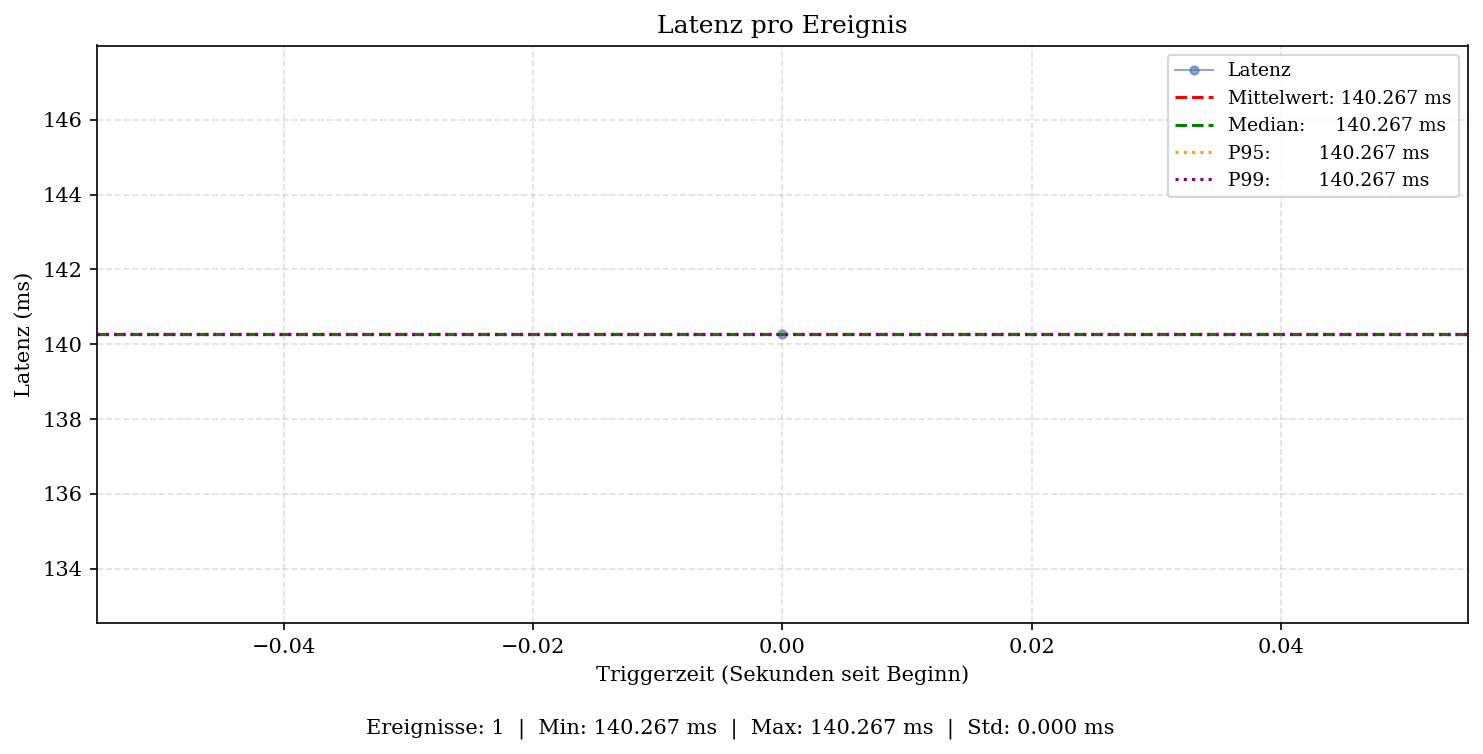
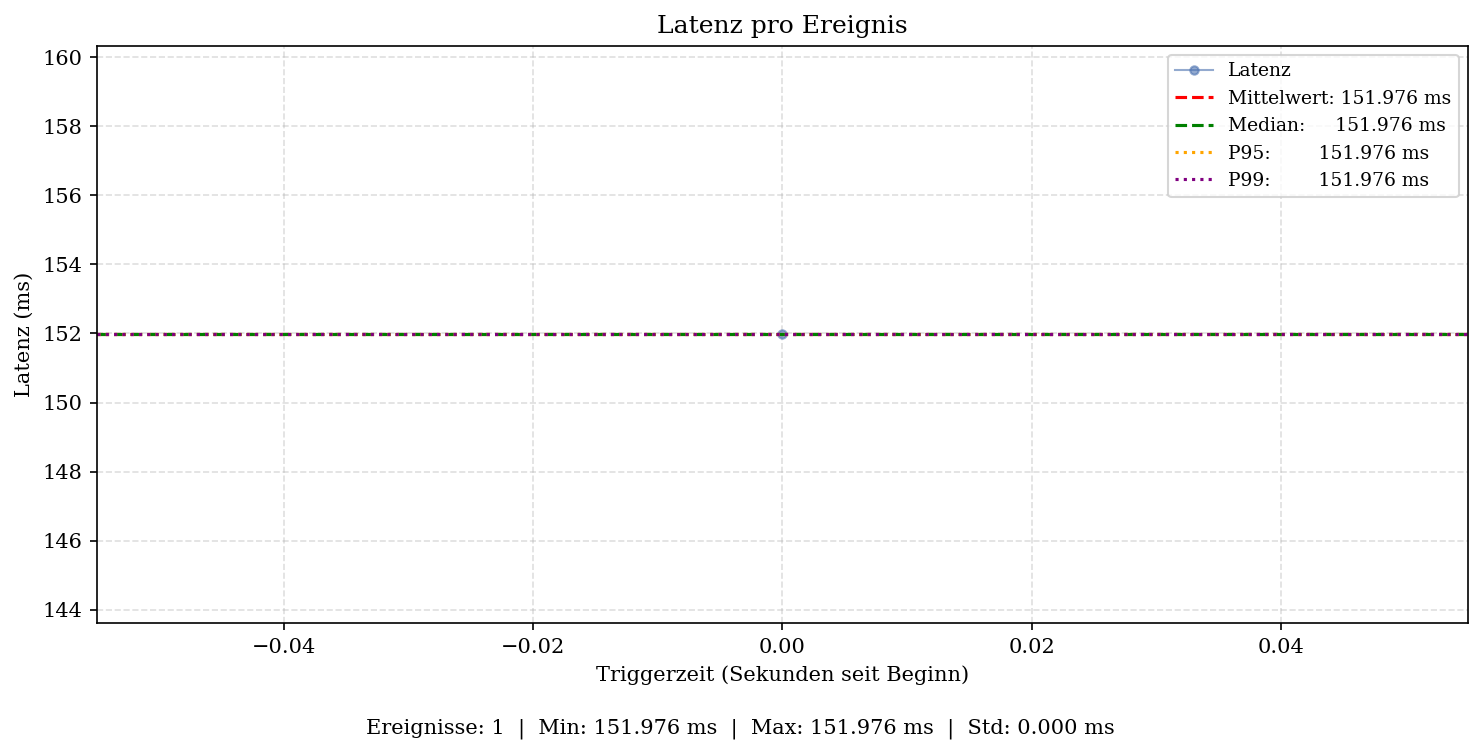
feat(runner): added timestamp to the runner

diff --git a/runner/runner.py b/runner/runner.py
@@ -2,8 +2,24 @@ import argparse
 import os
 import subprocess
 import time
+from datetime import datetime
 
 import yaml
+
+
+def log(msg="", leading_newline=False):
+    """Print a message prefixed with the current local time."""
+    ts = datetime.now().strftime("%Y-%m-%d %H:%M:%S")
+    prefix = "\n" if leading_newline else ""
+    print(f"{prefix}[{ts}] {msg}", flush=True)
+
+
+def format_duration(seconds):
+    """Format a duration in seconds as H:MM:SS."""
+    seconds = int(round(seconds))
+    h, rem = divmod(seconds, 3600)
+    m, s = divmod(rem, 60)
+    return f"{h}:{m:02d}:{s:02d}"
 
 
 def parse_args():
@@ -100,8 +116,9 @@ def run_simulation(run_index, cwd, base_dir, base_config_file, protocol, log_dir
 
         log_msg = f"(Logs saved to {log_dir}/std{{out,err}}-run-{run_index}.log)"
 
-    print(
-        f"\n[{run_index}] Starting {protocol.upper()} simulation into directory: {simulation_dir} {log_msg}..."
+    log(
+        f"[{run_index}] Starting {protocol.upper()} simulation into directory: {simulation_dir} {log_msg}...",
+        leading_newline=True,
     )
 
     runner_executable = (
@@ -155,38 +172,47 @@ def main():
         os.makedirs(args.log_dir, exist_ok=True)
 
     if args.start_index > 1:
-        print(f"Resuming from index {args.start_index}...")
+        log(f"Resuming from index {args.start_index}...")
 
     if args.sleep > 0:
-        print(f"Sleeping {args.sleep:g}s between runs.")
+        log(f"Sleeping {args.sleep:g}s between runs.")
+
+    total_start = time.monotonic()
 
     for i in range(args.start_index, args.runs + 1):
-        print(f"Running simulation {i}/{args.runs}...")
+        log(f"Running simulation {i}/{args.runs}...")
+        run_start = time.monotonic()
 
         try:
             _ = run_simulation(
                 i, cwd, args.base_dir, args.base_config, args.protocol, args.log_dir
             )
 
-            print(f"[{i}] Run complete.")
+            elapsed = format_duration(time.monotonic() - run_start)
+            log(f"[{i}] Run complete (took {elapsed}).")
 
         except KeyboardInterrupt:
-            print(f"\nInterrupted on run {i}. Resume with --start-index {i}.")
+            log(
+                f"Interrupted on run {i}. Resume with --start-index {i}.",
+                leading_newline=True,
+            )
 
             break
         except subprocess.CalledProcessError as e:
-            print(f"Docker execution failed on run {i} (exit code {e.returncode}).")
+            log(f"Docker execution failed on run {i} (exit code {e.returncode}).")
 
             break
         except Exception as e:
-            print(f"An error occurred on run {i}: {e}")
+            log(f"An error occurred on run {i}: {e}")
 
             break
 
         # Sleep between runs, but not after the last one
         if args.sleep > 0 and i < args.runs:
-            print(f"[{i}] Sleeping for {args.sleep:g}s before run {i + 1}...")
+            log(f"[{i}] Sleeping for {args.sleep:g}s before run {i + 1}...")
             time.sleep(args.sleep)
+
+    log(f"Finished. Total elapsed: {format_duration(time.monotonic() - total_start)}.")
 
 
 if __name__ == "__main__":
